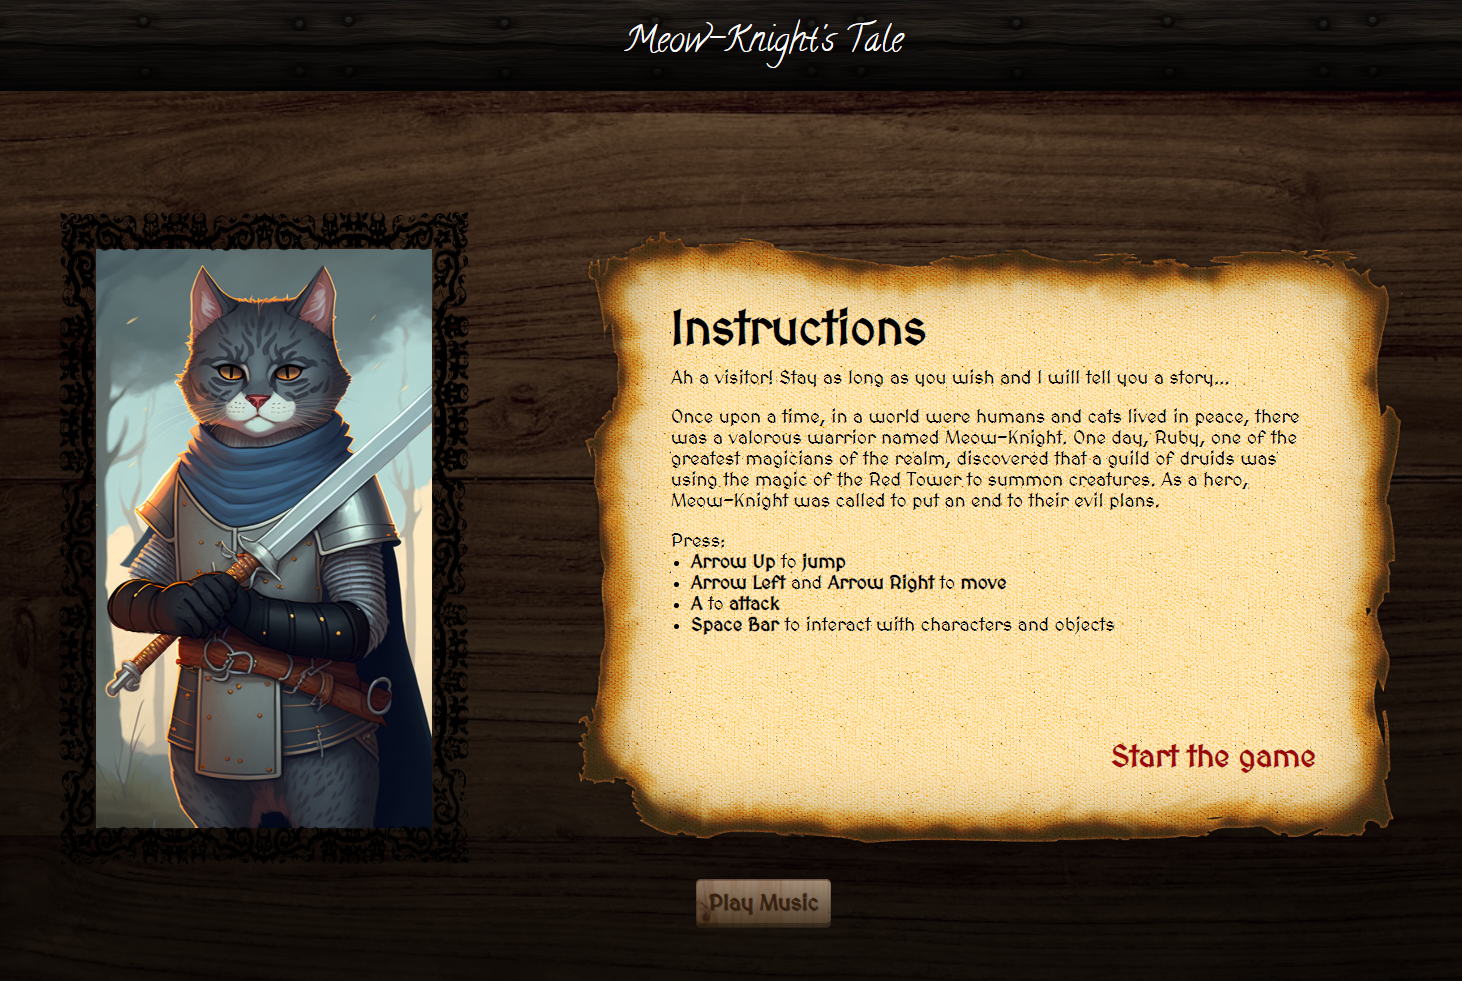
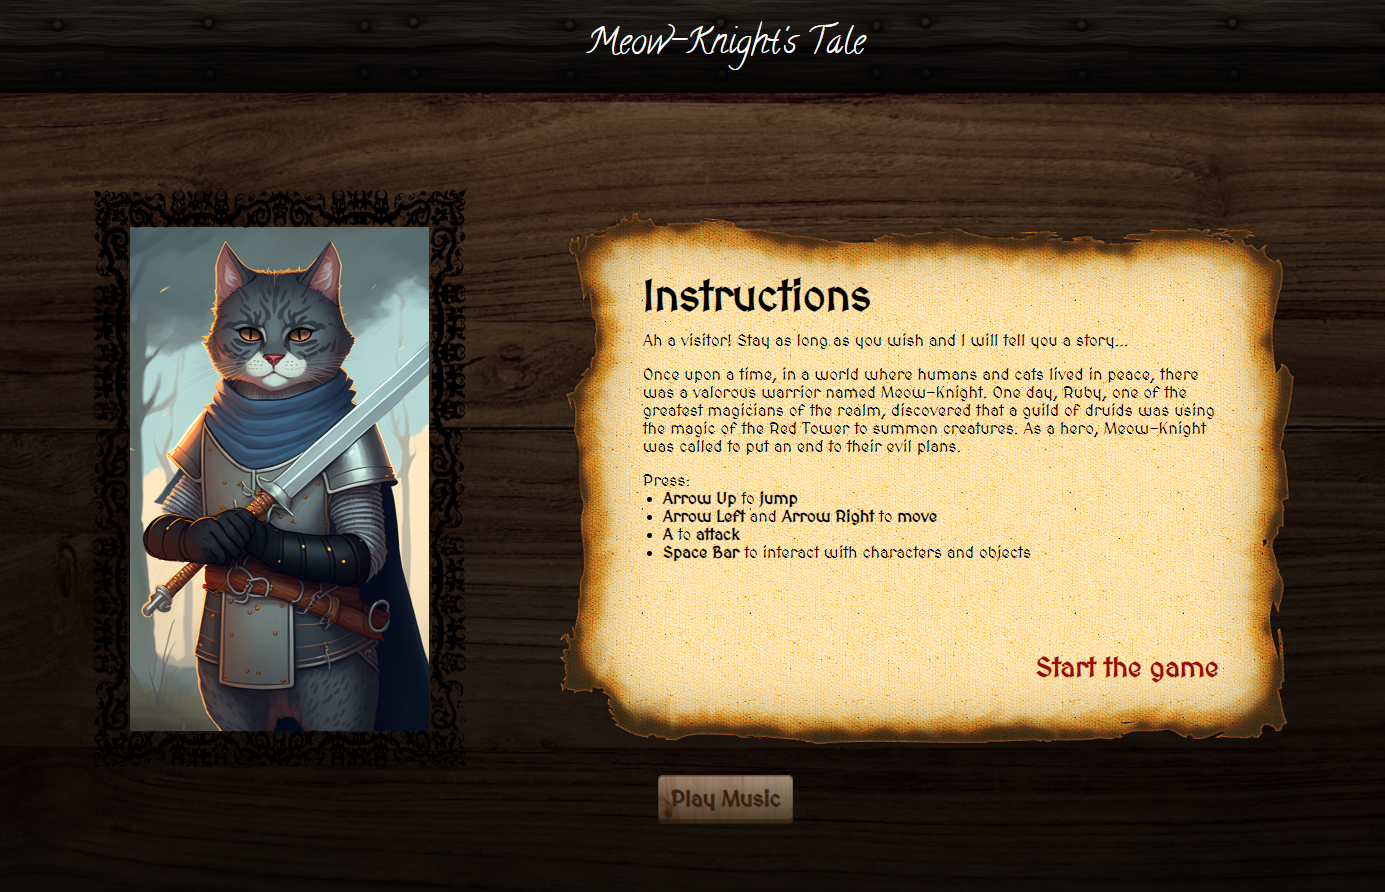
fixed typo, changed the first screenshot and displayed a text for tablet and mobile devices

diff --git a/index.html b/index.html
@@ -35,10 +35,10 @@
 
                 <div class="scroll">
                     <div class="text">
-                        <h2>Instructions</h2>
-                        <article>
+                        <h2 class="hide-mobiles">Instructions</h2>
+                        <article class="hide-mobiles">
                             <p>Ah a visitor! Stay as long as you wish and I will tell you a story... <br> <br> Once upon
-                                a time, in a world were humans and cats lived in peace, there was a valorous warrior
+                                a time, in a world where humans and cats lived in peace, there was a valorous warrior
                                 named Meow-Knight. One day, Ruby, one of the greatest magicians of the realm, discovered
                                 that a guild of druids was using the magic of the Red Tower to summon creatures. As a
                                 hero, Meow-Knight was called to put an end to their evil plans.</p> <br>
@@ -49,6 +49,13 @@
                                 <li><b>A</b> to <b>attack</b></li>
                                 <li><b>Space Bar</b> to interact with characters and objects</li>
                             </ul>
+                        </article>
+                        <article class="show-mobiles">
+                            <h2 class="show-mobiles">A note from the developer</h2>
+                            <p>Greetings, traveler! <br> You've made a wise choice in seeking out Meow-Knight's Tale, an epic
+                                side-scrolling RPG. <br> However, I must inform you that our hero's prowess is too much for mobile and
+                                tablet devices to handle. <br> But don't worry, if you have a computer, you can join Meow-Knight on
+                                his quest to defeat the monstrous hordes. <br> Let the adventure begin!</p>
                         </article>
                     </div>
                     <div class="start-game">
@@ -78,13 +85,14 @@
 
     <footer>
         <div>
-       <p>To learn more about my experience and skills, check out my Github profile and connect with me on LinkedIn. Let's create something great together!</p>
-    </div> 
-       <div>
-        <a href="https://github.com/marinedrp">
-            <img class="logo" src="./assets/website/github-logo.png" /></a>
-        <a href="https://www.linkedin.com/in/marine-drp/">
-            <img src="./assets/website/linkedin.png" /></a>
+            <p>To learn more about my experience and skills, check out my Github profile and connect with me on
+                LinkedIn. Let's create something great together!</p>
+        </div>
+        <div>
+            <a href="https://github.com/marinedrp">
+                <img class="logo" src="./assets/website/github-logo.png" /></a>
+            <a href="https://www.linkedin.com/in/marine-drp/">
+                <img src="./assets/website/linkedin.png" /></a>
         </div>
     </footer>
 

diff --git a/style.css b/style.css
@@ -8,9 +8,6 @@
 }
 
 /*Main page*/
-html {
-    scroll-behavior: smooth;
-}
 
 header {
     display: flex;
@@ -37,6 +34,10 @@ header {
 
 /*Large devices*/
 @media screen and (min-width: 1024px) {
+
+    html {
+        scroll-behavior: smooth;
+    }
 
     h1 {
         font-weight: 500;
@@ -124,6 +125,10 @@ header {
         content: "";
         margin-top: 1.8vh;
         display: block;
+    }
+
+    .show-mobiles{
+        display: none;
     }
 
     .start-game {
@@ -323,9 +328,9 @@ header {
         justify-content: space-between;
         height: 95%;
         width: 60%;
-        padding-top: 15%;
-        padding-left: 8%;
-        padding-right: 9%;
+        padding-top: 16%;
+        padding-left: 9%;
+        padding-right: 10%;
         padding-bottom: 21%;
         background-image: url(./assets/website/scroll2.png);
         background-size: 100% 100%;
@@ -334,22 +339,26 @@ header {
     }
 
     .text h2 {
-        font-size: 2.5vh;
+        font-size: 2.4vh;
         margin-bottom: 5px;
     }
 
     .text br {
         content: "";
-        margin-top: 1vh;
+        margin-top: 1.3vh;
         display: block;
     }
 
     .text article {
-        font-size: 1.7vh;
+        font-size: 1.9vh;
     }
 
     .text li {
         margin-left: 15px;
+    }
+
+    .hide-mobiles{
+        display: none;
     }
 
     .start-game {
@@ -393,6 +402,7 @@ header {
 
 /* Small devices */
 @media screen and (max-width: 480px) {
+
 
     h1 {
         font-weight: 500;
@@ -454,7 +464,7 @@ header {
         justify-content: space-between;
         height: 75vh;
         width: 100%;
-        padding-top: 28%;
+        padding-top: 32%;
         padding-left: 15%;
         padding-right: 15%;
         padding-bottom: 32%;
@@ -465,7 +475,7 @@ header {
     }
 
     .text h2 {
-        font-size: 2.5vh;
+        font-size: 2.7vh;
         margin-bottom: 5px;
     }
 
@@ -476,11 +486,15 @@ header {
     }
 
     .text article {
-        font-size: 1.8vh;
+        font-size: 2vh;
     }
 
     .text li {
         margin-left: 15px;
+    }
+
+    .hide-mobiles{
+        display: none;
     }
 
     .start-game {
